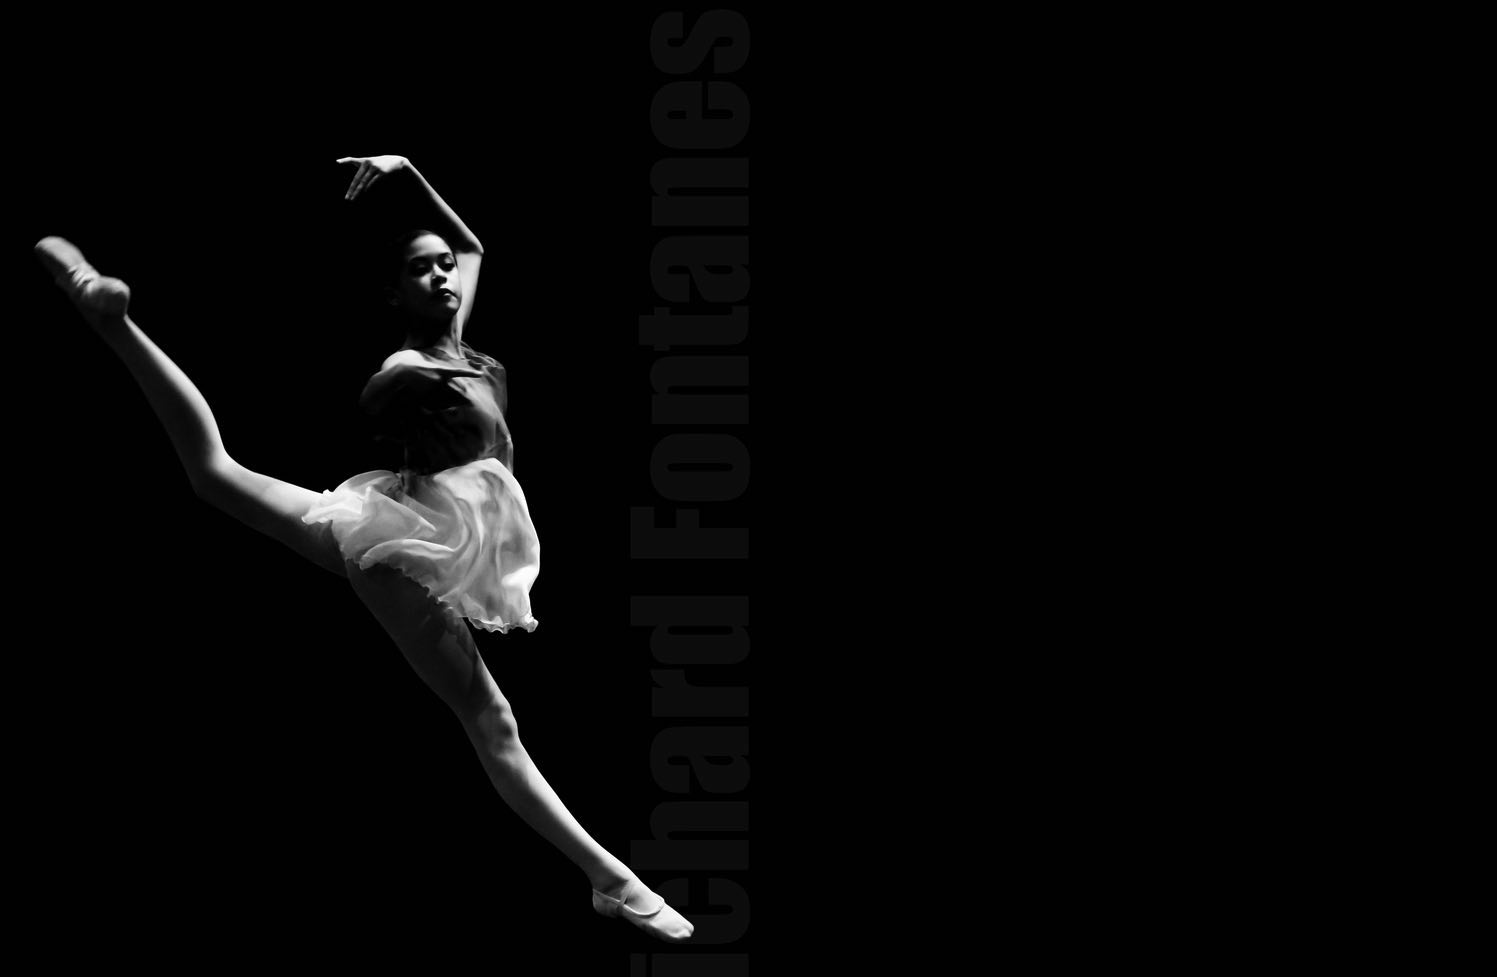
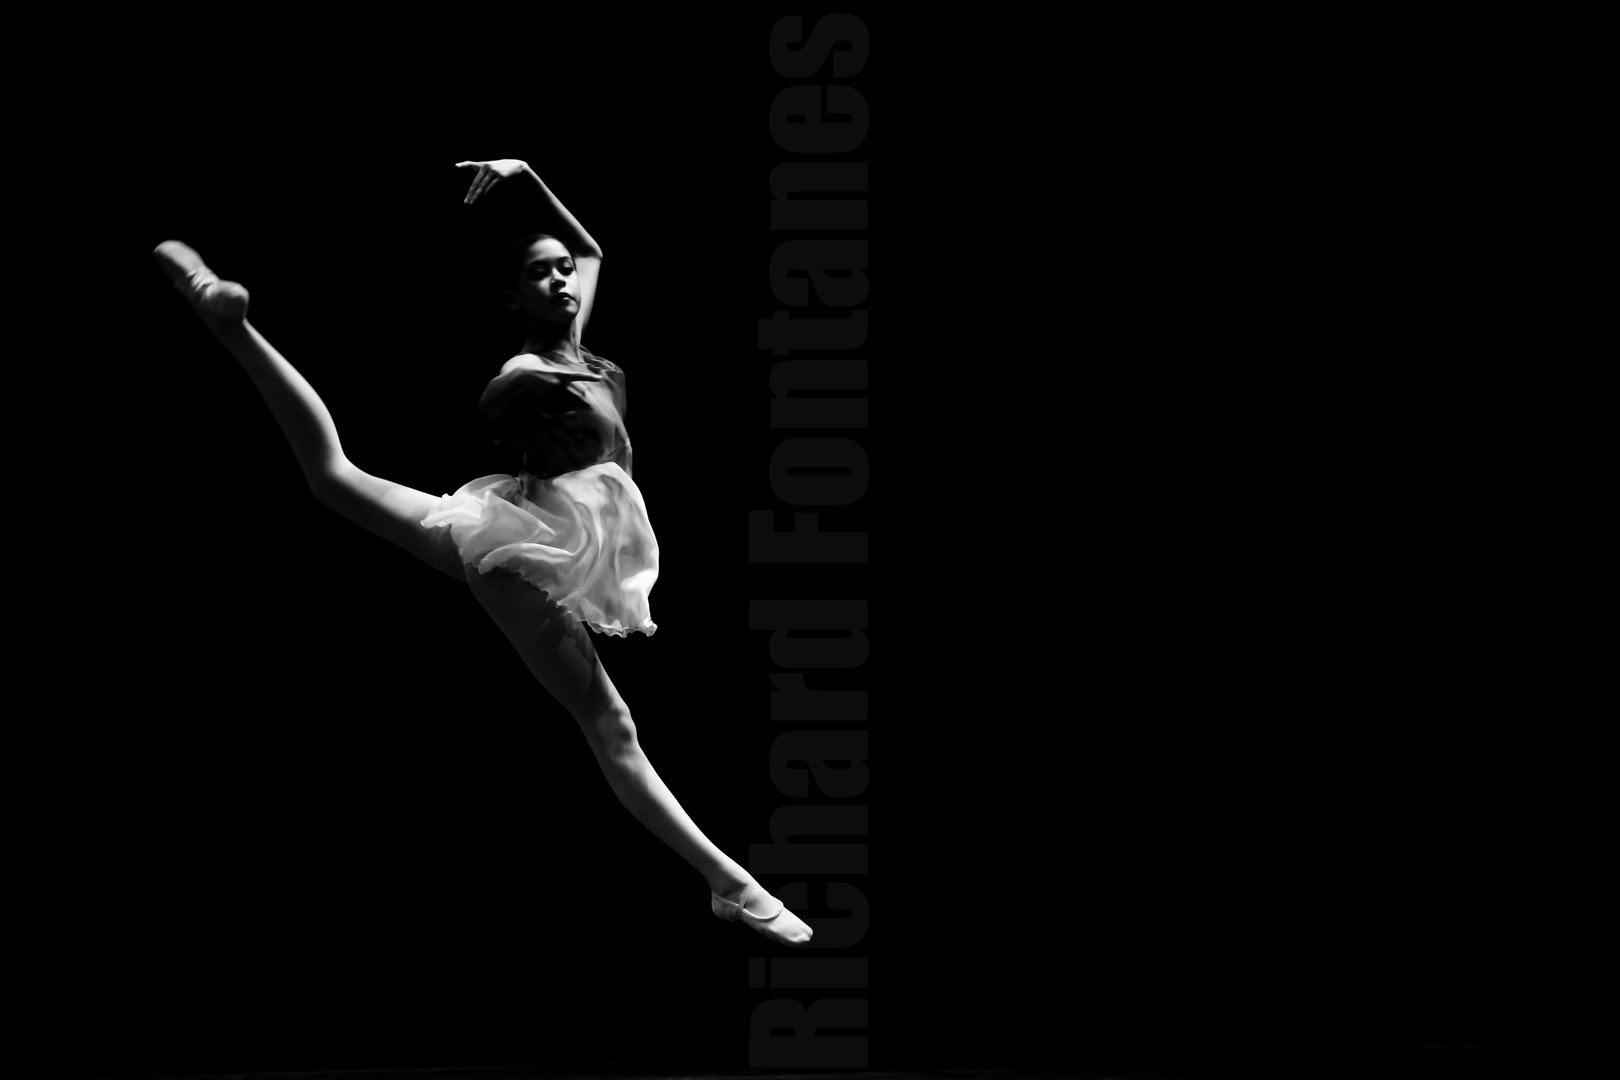
reduced background image size

Changed region(s): [[0.0922, 0.1228, 0.5224, 0.9826], [0.0922, 0.2149, 0.1536, 0.3071], [0.0307, 0.2456, 0.0922, 0.3378]]

diff --git a/Practice/reactv2-16-practice/ricayu-studios/1.ricayu-setup.profile/src/App.css b/Practice/reactv2-16-practice/ricayu-studios/1.ricayu-setup.profile/src/App.css
@@ -12,8 +12,8 @@
   background-size: cover;                   
   /* background-repeat: no-repeat; */
   background-position: center; 
-  transform: scale(.90);
-  margin-left: -5rem;
+  transform: scale(.75);
+  margin-left: -14rem;
   height: 110vh;
   z-index: -1;
 }

diff --git a/Practice/reactv2-16-practice/ricayu-studios/1.ricayu-setup.profile/src/components/Home.js b/Practice/reactv2-16-practice/ricayu-studios/1.ricayu-setup.profile/src/components/Home.js
@@ -4,10 +4,7 @@ import React from 'react';
 
 const Home = () => (
     <div className='BackgroundBlack'>
-    <div className='BackgroundImage'>
-        <h1>asdas</h1>
-        <h1>asdas</h1>
-    </div>
+    <div className='BackgroundImage' />
     </div>
 )
 
